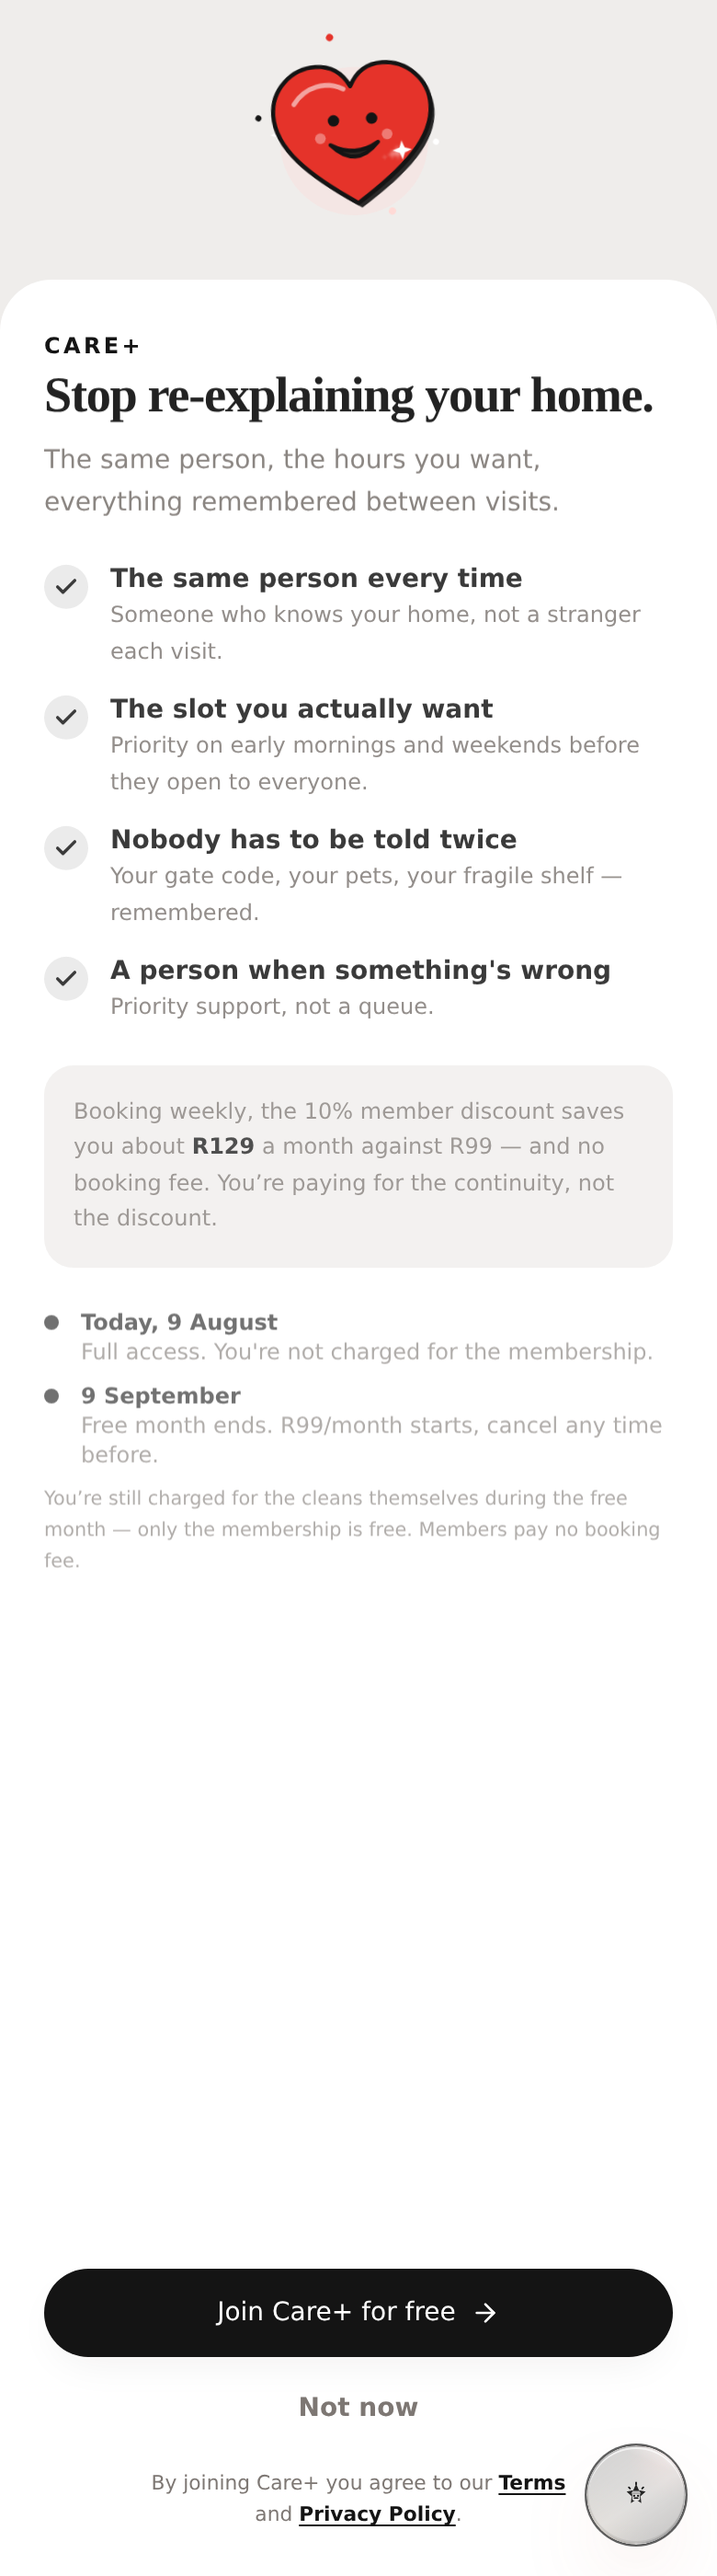
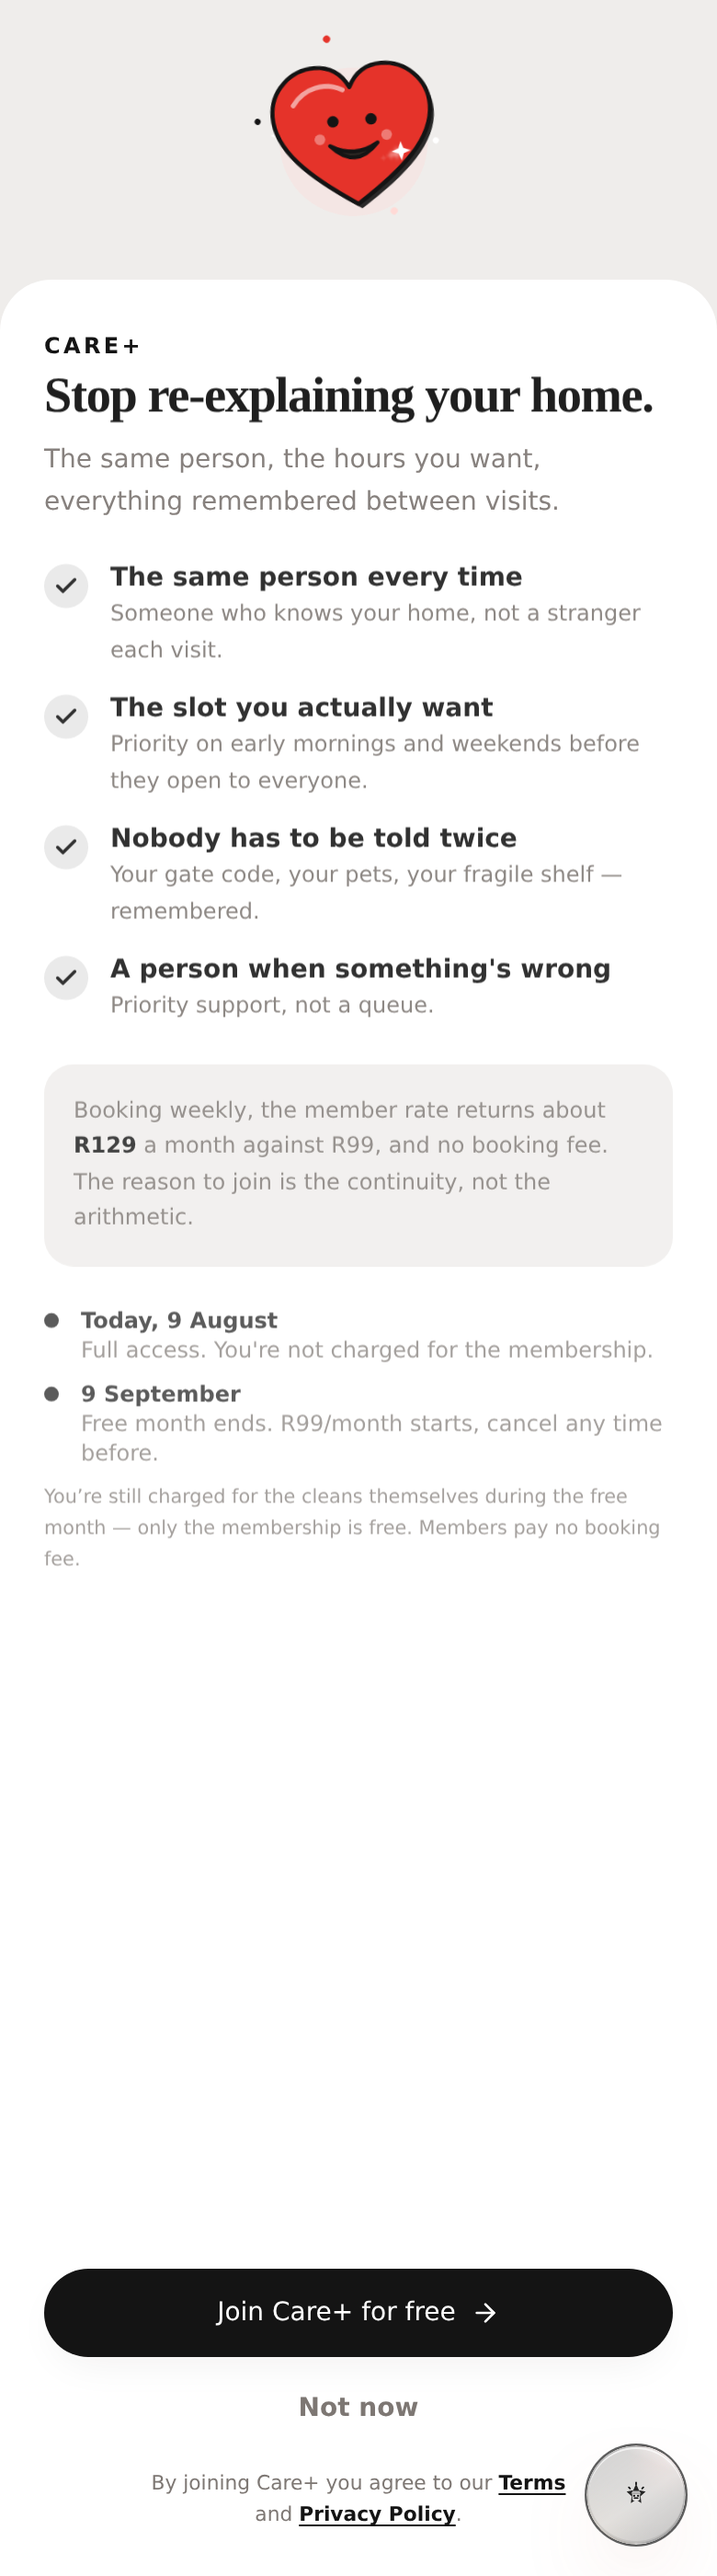
Answer the fortnightly question, in company voice, with the arithmetic written down
Founder asked whether fortnightly members are our least profitable. They are not —
monthly is — but the question was pointing at something real, so the answer is a
document that can be argued with rather than a paragraph in chat.

docs/care-plus-unit-economics.md, per member per month on a R296 clean at the flat
10% the server actually applies, illustrative commission 15%:

  Weekly       contribution R215   member +R30 ahead
  Fortnightly  contribution R157   member -R35 down
  Monthly      contribution R126   member -R69 down

So the ranking answer is monthly. But fortnightly is the segment that loses us
money we have already spent, for three reasons a contribution table cannot show:

  1. It is the only cadence where the maths NEARLY works. Weekly members are ahead
     and know it; monthly members are obviously not buying on price. R64 back
     against R99 is close enough to feel like a mistake and far enough to be one —
     the churn that happens after acquisition and after the free month.
  2. The free first month costs us ~R138 for a fortnightly member, about one
     month's contribution. Leaving in month two means we never recovered them.
  3. It is probably our largest segment. Flagged as an assumption — no cadence
     distribution exists in this repo.

Also established and worth acting on: aligning the server with CADENCE_DISCOUNT
(15/10/5) is a weekly-versus-monthly lever and does nothing for fortnightly, whose
[…]

diff --git a/src/pages/CarePlusPaywall.tsx b/src/pages/CarePlusPaywall.tsx
@@ -74,6 +74,16 @@ export default function CarePlusPaywall() {
 
   const dates = trialDates();
   const premium = savingsFor(cadence, 29600, "premium");
+  /*
+   * What a member is actually returned at this cadence, at the rate the server actually applies.
+   *
+   * `premium.savedCents` uses CADENCE_DISCOUNT, which the server does not implement — so it is
+   * used for nothing user-facing here. Both the number shown AND the decision to show it come
+   * from `SERVER_MEMBER_DISCOUNT_RATE`, because a box gated on one rate and filled with another
+   * can appear on a cadence where the honest figure is negative.
+   */
+  const memberReturnCents = Math.round(premium.spendCents * SERVER_MEMBER_DISCOUNT_RATE);
+  const memberIsAhead = memberReturnCents > CARE_PLUS_MONTHLY_CENTS;
   const winBack = savingsFor(cadence, 29600, "standard");
 
   // Tick only while a live countdown is on screen.
@@ -206,33 +216,38 @@ export default function CarePlusPaywall() {
         {/* Money shown as supporting evidence, never as the pitch — and only where it is actually
             true. Two corrections at the R99 repricing:
 
-            1. The rate quoted is the one the SERVER GIVES. `create-booking`'s getCarePlusDiscount
+            1. The figure is the one the SERVER GIVES. `create-booking`'s getCarePlusDiscount
                returns a flat 10% for every active member and ignores cadence; `CADENCE_DISCOUNT`
-               in care-plus.ts says 15% weekly. Quoting 15% would promise a discount nobody
-               receives — a false price representation under the CPA, and the same displayed-versus-
-               charged defect this repo already shipped once on the R39 fee.
-            2. "Roughly what the membership costs" was true at R199 and is not at R99. Saying a
-               saving washes out a fee it now exceeds understates the offer, but saying it the
-               other way round on a cadence that does not earn it would overstate — so the line
-               states the two numbers and lets them speak. */}
-        {premium.netCents > -2000 ? (
+               in care-plus.ts says 15% weekly. Quoting 15% would promise a return nobody receives
+               — a false price representation under the CPA, and the same displayed-versus-charged
+               defect this repo already shipped once on the R39 fee.
+            2. "Roughly what the membership costs" was true at R199 and is not at R99. The line
+               now states both numbers and lets them speak rather than characterising them.
+            3. The word "discount" is gone. BRAND_GUIDE.md forbids it in user-facing copy and says
+               plainly that "Care+ is not a discount plan. It is the household reliability, memory,
+               priority, and loyalty layer" — so the money reads as supporting evidence and the
+               sentence ends on the reason to join. */}
+        {memberIsAhead ? (
           <div className="rise-in rounded-2xl bg-secondary p-4 [animation-delay:165ms]">
             <p className="text-xs leading-relaxed text-muted-foreground">
-              Booking {cadence === "weekly" ? "weekly" : "at your cadence"}, the{" "}
-              {Math.round(SERVER_MEMBER_DISCOUNT_RATE * 100)}% member discount saves you about{" "}
-              <span className="font-semibold text-foreground">
-                {formatRand(Math.round(premium.spendCents * SERVER_MEMBER_DISCOUNT_RATE))}
-              </span>{" "}
-              a month against {formatRand(CARE_PLUS_MONTHLY_CENTS)} —
-              and no booking fee. You&rsquo;re paying for the continuity, not the discount.
+              Booking {cadence === "weekly" ? "weekly" : "at your cadence"}, the member rate returns
+              about <span className="font-semibold text-foreground">{formatRand(memberReturnCents)}</span> a
+              month against {formatRand(CARE_PLUS_MONTHLY_CENTS)}, and no booking fee. The reason to join is
+              the continuity, not the arithmetic.
             </p>
           </div>
         ) : (
           <div className="rise-in rounded-2xl bg-secondary p-4 [animation-delay:165ms]">
+            {/* The fortnightly and monthly branch, and the one worth writing carefully.
+                Fortnightly is where the numbers nearly work and do not — about R64 back against
+                R99 — which makes it the cadence most likely to feel misled later. So it is said
+                first and said plainly, before the reason to join. Company voice: outcomes and
+                relief, never price; "member rate", never "discount". */}
             <p className="text-xs leading-relaxed text-muted-foreground">
-              At your current cadence the {Math.round(premium.discountRate * 100)}% discount saves about{" "}
-              <span className="font-semibold text-foreground">{formatRand(premium.savedCents)}</span> a month, so this
-              tier won&rsquo;t pay for itself on price alone. It&rsquo;s worth it if the continuity is.
+              At your cadence the member rate returns about{" "}
+              <span className="font-semibold text-foreground">{formatRand(memberReturnCents)}</span> a month, so
+              Care+ won&rsquo;t cover itself on price. It covers itself the day someone walks in already
+              knowing your home — and the first month is free either way.
             </p>
           </div>
         )}

diff --git a/src/lib/care-plus-economics.test.ts b/src/lib/care-plus-economics.test.ts
@@ -1,0 +1,105 @@
+import { readFileSync } from "node:fs";
+import { join } from "node:path";
+import { describe, expect, it } from "vitest";
+
+import {
+  CARE_PLUS_MONTHLY_CENTS,
+  XOOTER_SHARE_OF_DISCOUNT,
+  savingsFor,
+} from "./care-plus";
+
+/**
+ * Keeps `docs/care-plus-unit-economics.md` from becoming a document that describes what someone
+ * once believed.
+ *
+ * That page answers a founder question — are fortnightly members our least profitable — with
+ * specific rands. Every one of those figures is derived from constants in `care-plus.ts` and from
+ * the flat rate `create-booking` applies. Change any of them and the page silently starts lying,
+ * which is exactly how `palette-migration.md` came to claim work was undone weeks after it shipped
+ * and `blocker.md` came to list functions for redeployment that had never been deployed.
+ *
+ * So the numbers are recomputed here and matched against the text. When an input moves, this fails
+ * and names the paragraph to rewrite.
+ */
+
+const doc = readFileSync(join(process.cwd(), "docs/care-plus-unit-economics.md"), "utf8");
+
+/** The rate the server actually applies — flat, cadence-ignored. See the divergence note. */
+const SERVER_RATE = 0.1;
+/** The illustrative commission the page solves at. Not an established figure; that is the point. */
+const ILLUSTRATIVE_COMMISSION = 0.15;
+const MEDIUM_CLEAN_CENTS = 29600;
+
+const rands = (cents: number) => Math.round(cents / 100);
+
+/** Xoot's contribution per member per month, in rands, at a given cadence. */
+function contribution(cadence: string) {
+  const { spendCents } = savingsFor(cadence, MEDIUM_CLEAN_CENTS, "standard");
+  const returnedCents = Math.round(spendCents * SERVER_RATE);
+  // `splitDiscount` caps the Xooter's share at the pay floor per booking; at the aggregate level
+  // the page uses the nominal split, which is the more conservative direction for Xoot.
+  const absorbedCents = Math.round(returnedCents * (1 - XOOTER_SHARE_OF_DISCOUNT));
+  const commissionCents = Math.round(spendCents * ILLUSTRATIVE_COMMISSION);
+  return rands(CARE_PLUS_MONTHLY_CENTS + commissionCents - absorbedCents);
+}
+
+/** What the member gets back, minus what they pay, in rands. Negative means they are down. */
+function memberPosition(cadence: string) {
+  const { spendCents } = savingsFor(cadence, MEDIUM_CLEAN_CENTS, "standard");
+  return rands(Math.round(spendCents * SERVER_RATE) - CARE_PLUS_MONTHLY_CENTS);
+}
+
+describe("Care+ unit economics", () => {
+  it("still ranks monthly below fortnightly below weekly on contribution", () => {
+    // The document's headline answer. If this order ever inverts, the answer to the founder's
+    // question changes and the page has to be rewritten, not patched.
+    expect(contribution("weekly")).toBeGreaterThan(contribution("biweekly"));
+    expect(contribution("biweekly")).toBeGreaterThan(contribution("monthly"));
+  });
+
+  it("matches the contribution figures printed in the document", () => {
+    expect({ weekly: contribution("weekly") }).toEqual({ weekly: 215 });
+    expect({ fortnightly: contribution("biweekly") }).toEqual({ fortnightly: 157 });
+    expect({ monthly: contribution("monthly") }).toEqual({ monthly: 126 });
+
+    expect(doc).toContain("| Weekly | **R215** |");
+    expect(doc).toContain("| Fortnightly | **R157** |");
+    expect(doc).toContain("| Monthly | **R126** |");
+  });
+
+  it("matches the member's own position, including the sign", () => {
+    // The sign is the whole argument. Weekly ahead, everyone else down — and fortnightly down by
+    // an amount small enough to feel like an error, which is the churn risk the page is about.
+    expect(memberPosition("weekly")).toBe(30);
+    expect(memberPosition("biweekly")).toBe(-35);
+    expect(memberPosition("monthly")).toBe(-69);
+
+    expect(doc).toContain("+R30 ahead");
+    expect(doc).toContain("−R35 down");
+    expect(doc).toContain("−R69 down");
+  });
+
+  it("keeps the paywall's shortfall sentence true for fortnightly", () => {
+    // The mitigation that shipped: the fortnightly branch says the member rate does not cover the
+    // fee. That sentence is only honest while the position is actually negative.
+    expect(memberPosition("biweekly")).toBeLessThan(0);
+    const paywall = readFileSync(join(process.cwd(), "src/pages/CarePlusPaywall.tsx"), "utf8");
+    expect(paywall).toContain("won&rsquo;t cover itself on price");
+  });
+
+  it("holds the claim that cadence tiering does nothing for fortnightly", () => {
+    // The page tells the founder that aligning the server with CADENCE_DISCOUNT is a
+    // weekly-versus-monthly lever, not a fortnightly one. That is true only because the intended
+    // fortnightly rate and the flat rate are the same number. If the table changes, the advice
+    // changes with it.
+    const { discountRate } = savingsFor("biweekly", MEDIUM_CLEAN_CENTS, "standard");
+    expect(discountRate).toBe(SERVER_RATE);
+    expect(doc).toContain("It leaves fortnightly untouched at");
+  });
+
+  it("keeps naming the commission rate as the missing input", () => {
+    // A unit-economics page that quietly drops its own caveat is worse than one with no numbers.
+    expect(doc).toMatch(/commission rate.*is not\s*\n?established/s);
+    expect(doc).toContain("Commission rate (c).");
+  });
+});

diff --git a/docs/care-plus-unit-economics.md b/docs/care-plus-unit-economics.md
@@ -1,0 +1,136 @@
+# Care+ unit economics, by cadence
+
+Written 2026-08-09, at the R99 repricing, to answer a direct question: **are fortnightly members
+our least profitable, and if so why, and what do we do about it?**
+
+Short answer: **no — monthly members are the least profitable per head. But fortnightly is the
+segment most likely to lose us money we have already spent, and it is probably the largest.** Those
+are different problems and they need different fixes.
+
+---
+
+## The one number that decides this, and we do not have it
+
+Everything below is a function of **Xoot's commission rate on a booking**, and that rate is not
+established anywhere in this repository. `care-plus.ts` has carried the warning since it was
+written:
+
+> ⚠ CONFIRM before this charges anyone: the percentages are sized to make the membership wash out
+> at weekly cadence, not derived from a known take rate. If Xoot's commission is below ~15% these
+> are margin-negative on every weekly member.
+
+So the tables use **c** for commission and are solved at c = 15% as an illustration. **Fixing c is
+the highest-value thing on this page.** Until it is fixed, "which cadence is most profitable" is a
+question about the shape of the curve, not the value.
+
+## What a member actually costs and returns
+
+Per member per month, on the R296 medium clean, at the rate the server actually applies (a **flat
+10%**, see the divergence note below):
+
+| | bookings/mo | spend | returned to member | Xoot absorbs¹ | contribution |
+|---|---|---|---|---|---|
+| Weekly | 4.345 | R1 286 | R129 | R77 | **R22 + 1286c** |
+| Fortnightly | 2.173 | R643 | R64 | R39 | **R60 + 643c** |
+| Monthly | 1.0 | R296 | R30 | R18 | **R81 + 296c** |
+
+¹ `DISCOUNT_FUNDING = "shared"` with `XOOTER_SHARE_OF_DISCOUNT = 0.4`, so Xoot carries 60% of what
+is returned to the member. The Xooter carries the rest, floored by `MIN_XOOTER_PAY_*`.
+
+Solved at **c = 15%**:
+
+| | contribution / month | member's own position |
+|---|---|---|
+| Weekly | **R215** | +R30 ahead |
+| Fortnightly | **R157** | −R35 down |
+| Monthly | **R126** | −R69 down |
+
+**So fortnightly is not the least profitable — monthly is.** Fortnightly sits in the middle on
+every line: middle contribution, middle spend, middle position for the member.
+
+Note the shape though. The R99 fee is flat, so as cadence falls, membership revenue becomes a larger
+share of a smaller total and the *contribution* falls more slowly than *spend* does. A monthly
+member is a quarter of a weekly member's spend and still over half the contribution. Care+ is doing
+real work at low cadence — it is just doing it on a much smaller base.
+
+## Why fortnightly is still the segment to worry about
+
+Three reasons, none of which show up in a contribution table.
+
+**1. It is the cadence where the maths nearly works and does not.** A weekly member is ahead and
+knows it. A monthly member is obviously not buying on price and knows that too — nobody books one
+clean a month and expects a membership to pay for itself. **Fortnightly is the only cadence where
+someone can plausibly believe the membership washes out, do the sum three months in, and find it
+does not.** R64 back against R99 is close enough to feel like a mistake and far enough to be one.
+That is the churn most expensive to us, because it happens *after* acquisition and after the free
+month.
+
+**2. We have already paid for them when it happens.** The free first month costs Xoot the R99 plus
+the returned value with no membership revenue against it: about **R138 for a fortnightly member**
+(R99 + R39 absorbed). At c = 15% that is roughly one month of contribution to recover. A member who
+leaves in month three has been marginally profitable; one who leaves in month two has not.
+
+**3. It is probably our biggest segment.** Fortnightly is the common cadence in South African
+domestic cleaning. We do not have the data to confirm that inside this repo — no booking-cadence
+distribution exists yet — but if it holds, our largest segment is the one with the weakest honest
+pitch. **That combination, not the contribution figure, is the actual risk.**
+
+## What we should do about it
+
+Ordered by cost to us. The first two are done; the rest are decisions, not code.
+
+**Done — say it plainly before they work it out.** `CarePlusPaywall.tsx` now shows the fortnightly
+and monthly branch a sentence that leads with the shortfall rather than burying it: *"At your
+cadence the member rate returns about R64 a month, so Care+ won't cover itself on price. It covers
+itself the day someone walks in already knowing your home — and the first month is free either
+way."* A member who joins having read that cannot feel misled later, which is the whole failure
+mode. It also matches `BRAND_GUIDE.md`: Care+ "is not a discount plan", and "discount" is a
+forbidden word in user-facing copy.
+
+**Done — quote the rate the server actually gives.** The paywall was advertising 15% while
+`create-booking` applies 10%. See the divergence below.
+
+**Decide — align the server with the cadence tiering, or drop the tiering.** `CADENCE_DISCOUNT`
+intends 15/10/5; `getCarePlusDiscount` returns a flat 0.1. Aligning it would *lower* weekly
+contribution (R215 → R176) and *raise* monthly (R126 → R135). It leaves fortnightly untouched at
+exactly 10%. So tiering is not a fortnightly lever at all — it is a weekly-versus-monthly lever, and
+right now we are quietly running the flat version. **Pick one on purpose.**
+
+**Consider — weight a benefit toward fortnightly rather than money.** The continuity promise is
+worth *most* at fortnightly and we do not say so. A weekly member sees the same Xooter often enough
+to build the relationship regardless of Care+; a monthly member barely builds one either way.
+Fortnightly is precisely the gap where "the same person every time" changes the experience and where
+the platform default would otherwise rotate. That is a copy and matching-priority change, not a
+pricing one, and it costs us nothing per member.
+
+**Consider — a mid-cycle top-up at member rate.** Something small between visits (an express hour,
+a targeted room) offered only to members below weekly. It raises spend on the segment with the most
+headroom, and it is the one lever that improves fortnightly contribution without touching the fee or
+widening what we return.
+
+**Do not — introduce a cheaper tier for low cadence.** That was the old R99/R199 split, and it made
+the pitch about price at exactly the segment we cannot win on price. It also produced the false
+"half the price of Premium" claim we have just removed.
+
+## The divergence this document assumes
+
+`create-booking`'s `getCarePlusDiscount` returns **0.1 flat** for every active member, ignoring
+cadence. `care-plus.ts`'s `CADENCE_DISCOUNT` describes 15/10/5. `pricing-parity.test.ts` pins both
+so neither can move silently, and the paywall quotes the server's figure.
+
+Every number on this page uses the flat 10%, because that is what a member is actually charged.
+
+## What is not modelled here
+
+Stated rather than glossed, because a unit-economics page that hides its gaps is worse than none:
+
+- **Commission rate (c).** The single largest input, unconfirmed.
+- **Servicing cost per member.** Support contacts, replacement handling, priority matching. Care+
+  promises priority support, which is a real cost that scales with members and not with spend — and
+  it therefore hurts low-cadence members' contribution more than this table shows.
+- **Churn.** The argument above is about churn and the table does not contain it. Contribution per
+  month means little without expected lifetime.
+- **Cadence distribution.** No data in this repo. The claim that fortnightly is the largest segment
+  is an assumption from the South African market, flagged as one.
+- **XootCred at 1.5×,** and the once-off R30 welcome add-on credit. Both are real costs of
+  membership and neither is in the table.
